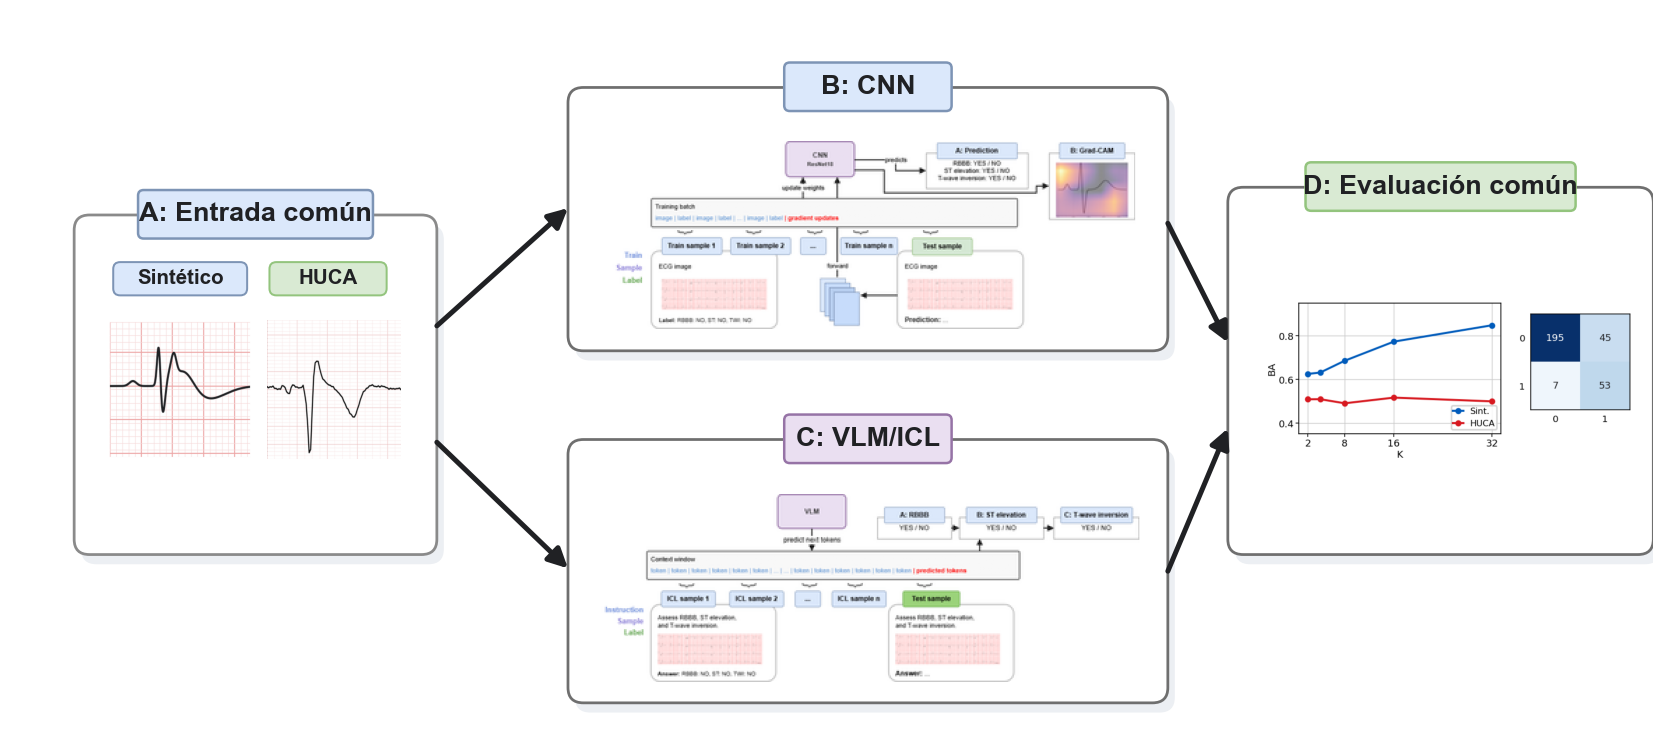
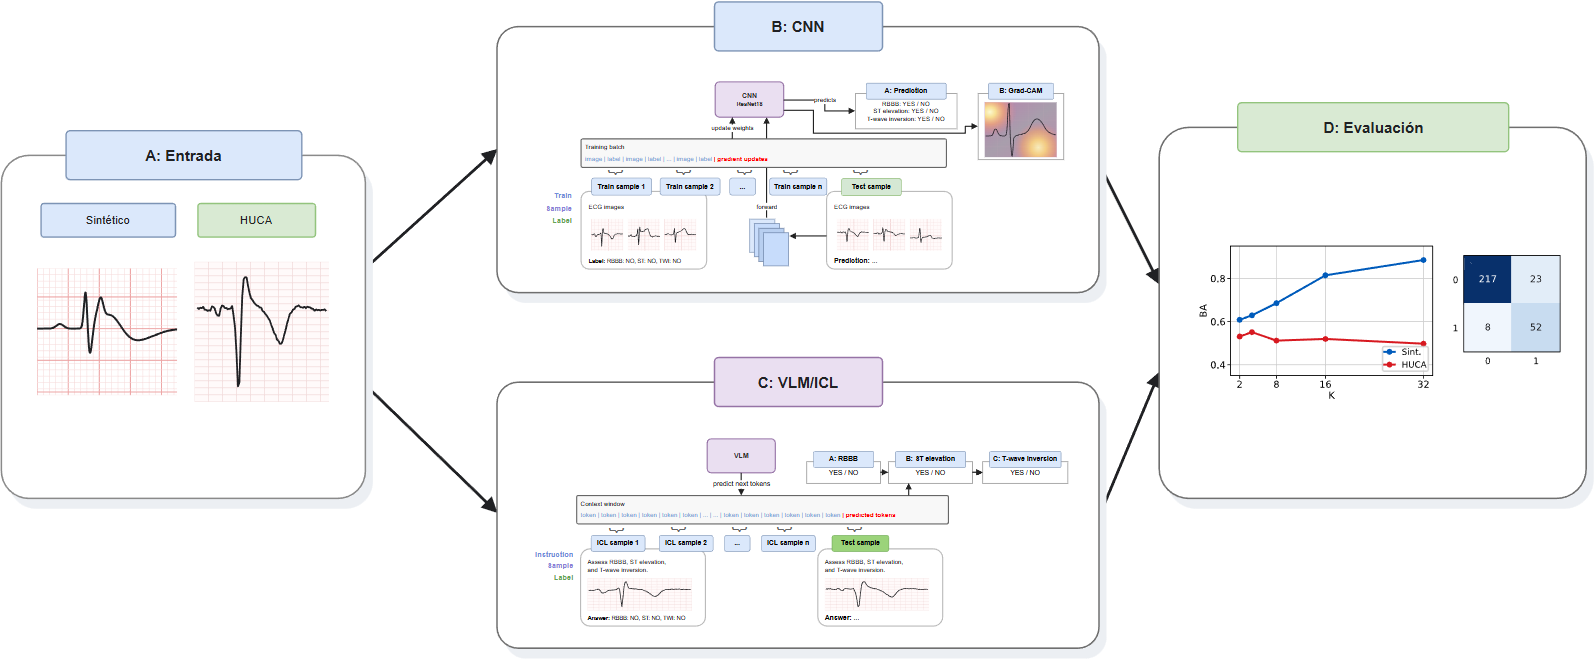
Shorten input and evaluation labels in the workflow diagram

Changed region(s): [[0.2763, 0.0, 1.0, 0.7564], [0.0, 0.1815, 0.7675, 0.9682], [0.0, 0.7262, 0.0614, 0.7564]]

diff --git a/docs/results.md b/docs/results.md
@@ -57,17 +57,18 @@ The selection fixes K at 32 instead of choosing the best K for each method. Gemm
 
 ## Published assets
 
-All PNGs below were copied byte-for-byte from canonical aggregate reports or the final figure selection. Editable procedure diagrams were copied from the corresponding local draw.io sources. Existing diagram labels retain their original language. Diagram panels are explanatory illustrations; use the CSV selections above for reported metrics.
+Except for the experimental pipeline export described below, PNGs were copied byte-for-byte from canonical aggregate reports or the final figure selection. Editable procedure diagrams originate from the corresponding local draw.io sources. Existing diagram labels retain their original language. Diagram panels are explanatory illustrations; use the CSV selections above for reported metrics.
 
 ### `docs/assets/diagrams/experimental_pipeline.png`
 
-- Source: `outputs/final_results_tfg/tfg_figures/results/fig_pipeline_experimental.drawio.png`.
[1 lines of base64/hex data omitted]
+- Source: `docs/assets/diagrams/experimental_pipeline.drawio`.
+- Export: draw.io Desktop 29.6.1, PNG, scale 1.4, border 0; labels read "A: Entrada" and "D: Evaluación".
[1 lines of base64/hex data omitted]
 
 ### `docs/assets/diagrams/experimental_pipeline.drawio`
 
-- Source: `thesis/thesis/assets/results/fig_pipeline_experimental.drawio`.
[1 lines of base64/hex data omitted]
+- Source: `thesis/thesis/assets/results/fig_pipeline_experimental.drawio`, with only "Entrada común" and "Evaluación común" shortened to "Entrada" and "Evaluación" in this public copy.
[1 lines of base64/hex data omitted]
 
 ### `docs/assets/diagrams/gaussian_generator.png`
 
